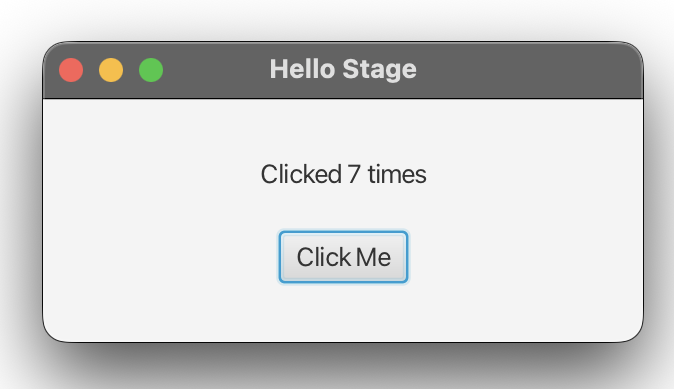
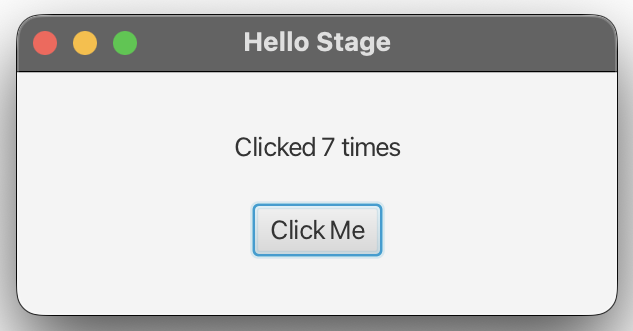
Correct image size and margin

diff --git a/_docs/index.md b/_docs/index.md
@@ -47,7 +47,7 @@ object HelloStageDemo extends JFXApp3:
           spacing = 20
           children = Seq(messageLabel, button)
 ```
-![HelloStageDemo-1]({{ site.url }}/img/HelloStageDemo-1.png)
+![HelloStageDemo-1]({{ site.url }}/img/HelloStageDemo-1.png){: width="500"}
 
 Unlike the builders you find in the core JavaFX APIs, the ScalaFX object declaration syntax uses the normal object API. This means that you can use the same operators and convenient syntax to create and modify your scene graph. Also, anything that is permissible in a Scala block (such as variable declarations, method calls, binding, etc.) can also be done inline while constructing objects. For JavaFX builders you need to declare binding after you finish creating your objects, which leads to disassociated and hard to maintain code.
 
